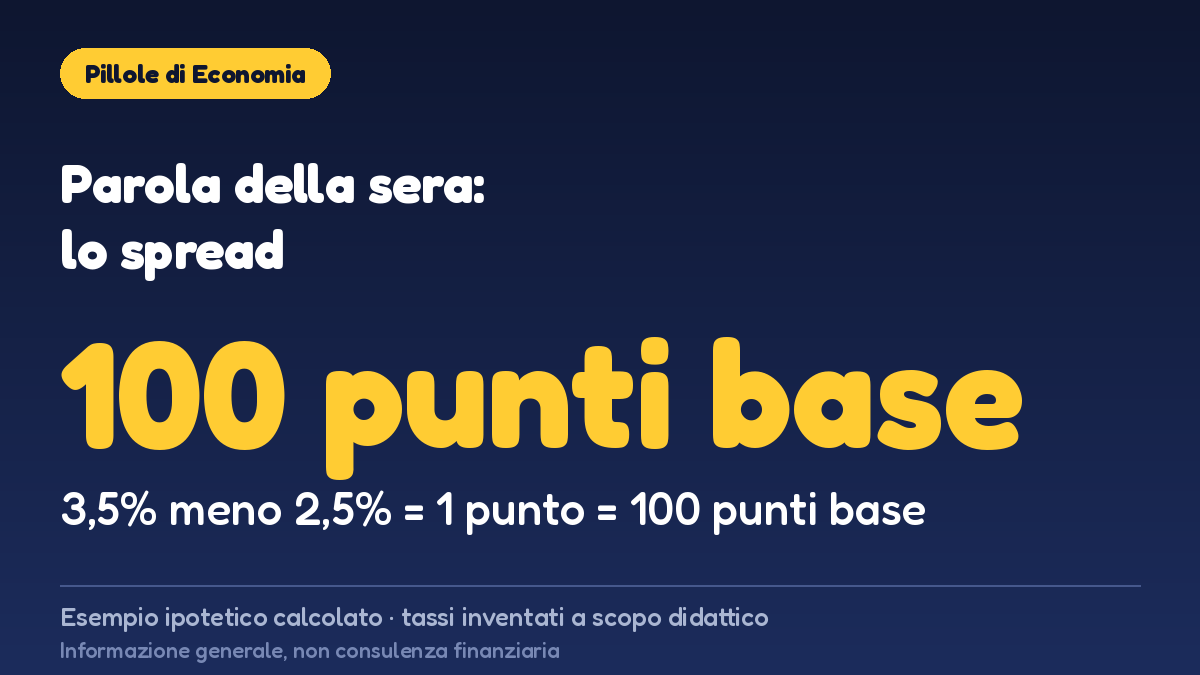
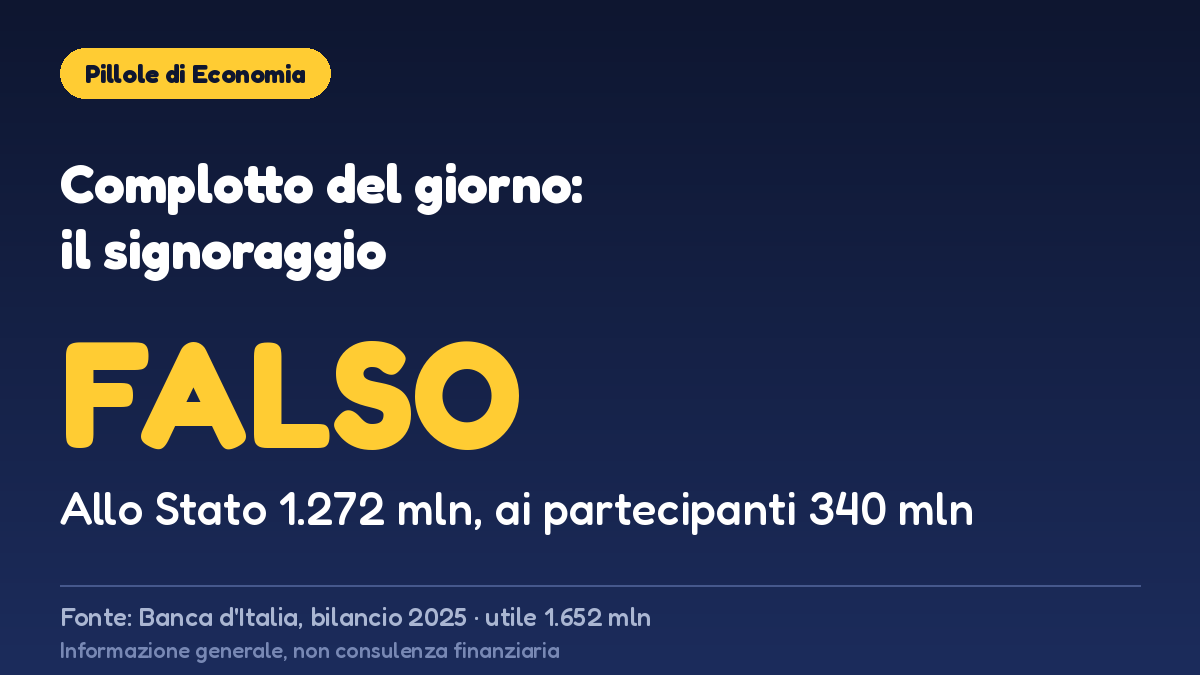
Coda X 7 novembre: slot 22:00 diventa Complotto del giorno (signoraggio)
Claude-Session: https://claude.ai/code/session_011kmv41tBcqDQqzG5TSLGzy

diff --git a/x-poster/ARGOMENTI.md b/x-poster/ARGOMENTI.md
@@ -7,5 +7,5 @@ Una riga per post: data · tema · numero/fonte. Non ripetere lo stesso tema pri
 - 2026-11-07 · Rata mutuo 150.000 € a 25 anni · 711,32 € (3%) vs 791,76 € (4%), +80,44 €/mese · calcolato, tassi ipotetici
 - 2026-11-07 · Mito +10% e poi -10% sullo stipendio · 1.500 → 1.650 → 1.485 € · calcolato
 - 2026-11-07 · Domanda ai lettori: spesa che sembra più alta di prima · nessun dato
-- 2026-11-07 · Parola della sera: spread · 3,5% - 2,5% = 100 punti base, su 100 mld = 1 mld/anno · calcolato, tassi ipotetici
+- 2026-11-07 · Complotto del giorno: signoraggio, utili Bankitalia · FALSO: 2025 utile 1.652 mln, 340 mln dividendo, 1.272 mln allo Stato, 466 mln imposte · Banca d'Italia
 - (video già fatti, da non ripetere uguali) deposito cauzionale, 5 tasse nascoste, stipendio/IRPEF, rate, cedolare secca, imposta di registro
